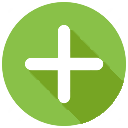
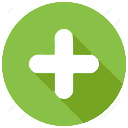
update publishDemand

diff --git a/src/main/webapp/myself.html b/src/main/webapp/myself.html
@@ -70,7 +70,7 @@
 			<div class="main1_div">空空如也~快去发布商品吧</div>
 		</div>
 		<div id="main2">
-			<div class="main1_div">空空如也~暂无关注</div>
+			<div class="main1_div">空空如也~</div>
 			<!--
 			<div class="goods">
 				<img src="img/44.jpg">
@@ -79,7 +79,7 @@
 			</div>-->
 		</div>
 		<div id="main3">
-			<div class="main1_div">空空如也~</div>
+			<div class="main1_div">空空如也~暂无关注</div>
 		</div>
 		<div id="main4">
 			<div id="message">

diff --git a/src/main/webapp/index.html b/src/main/webapp/index.html
@@ -196,7 +196,7 @@
 	<p class="bottom">版本所有权 &copy;2018&nbsp;现卖——变闲为现的买卖</p>
 </div>
 
-<a id="testa" target="_blank" href="seekGoods.html"><img id="upload" title="发布寻求" src="img/index/demand.png"></a>
+<a id="testa" target="_blank" href="seekGoods.html"><img id="upload" title="发布寻求" src="img/index/publishDemand.png"></a>
 <div id="test">
 	<img title="回到顶部" src="img/up.png">
 </div>

diff --git a/src/main/java/com/cashsale/dao/SearchDemandDAO.java b/src/main/java/com/cashsale/dao/SearchDemandDAO.java
@@ -27,6 +27,8 @@ public class SearchDemandDAO {
                 demandDO.setContent(result.getString("content"));
                 demandDO.setImgUrl(result.getString("img_url"));
                 demandDO.setTitle(result.getString("title"));
+                demandDO.setOrganization(result.getString("organization"));
+                demandDO.setDemandId(result.getInt("demand_id"));
             }
         }catch (Exception e){
             e.printStackTrace();
